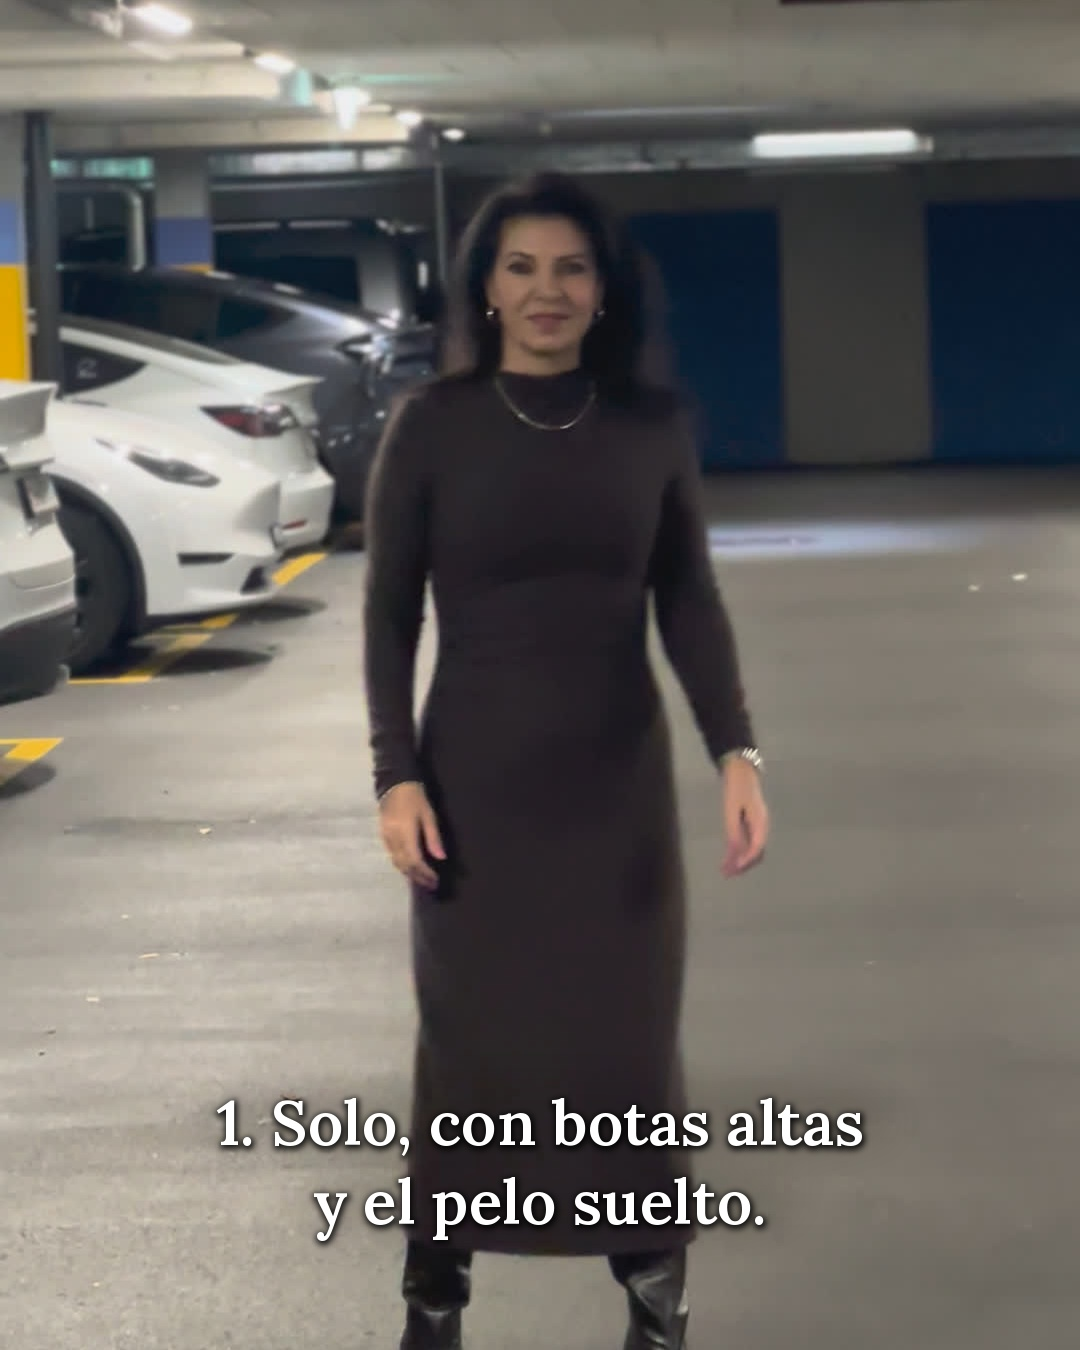
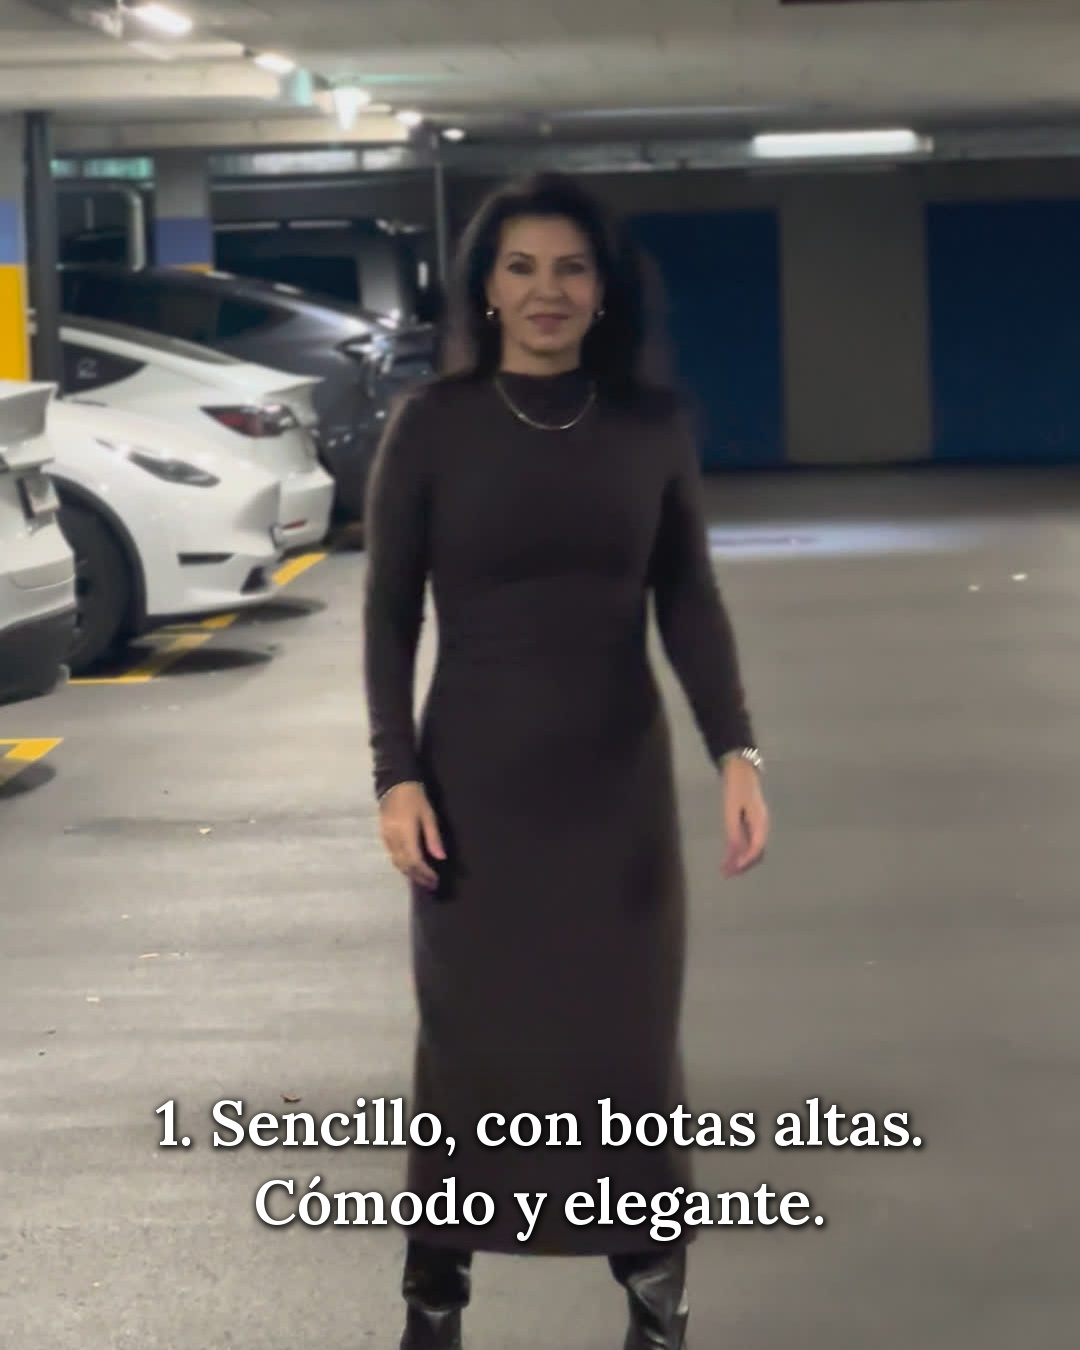
Normas: cuenta pensada para mujeres; carrusel 28 nov retocado
Claude-Session: https://claude.ai/code/session_01DvE22EYfGFMJ7juH4Ni6wN

Changed region(s): [[0.1222, 0.8089, 0.8556, 0.9333]]

diff --git a/NORMAS.md b/NORMAS.md
@@ -214,3 +214,10 @@ Lo que ya está programado en el estilo antiguo se sustituye poco a poco por ree
 - Las historias en vídeo a lo largo del día las sube Coni a mano. No se tocan ni se programan encima.
 - Publicación diaria del feed (tarjeta de las 08:00): la hace Make, escenario 7232062, desde la pestaña «Untitled» de la hoja (exporta la tarjeta de Canva y publica foto en Facebook e Instagram; marca la fila «Publicado»). Filas preparadas hasta el 31 ene. Sigue igual. Ojo: la conexión de Facebook en Make caduca el 3 dic (recordatorio el 28 nov).
 - ÁLBUM DE CLUB SOBERANA (orden de Coni, 17 nov): todas las fotos y vídeos que Coni mande se guardan siempre, sin excepción, en este repositorio (fotos-coni/ y videos-coni/, rama claude/retomamos-dbtxxf) y se apuntan en la colección `fotos` del registro como «libre», con descripción y escena. Los vídeos del iPhone vienen en HDR: se pasan a SDR solo al usarlos.
+
+## CUENTA PARA MUJERES (Coni, 18 nov 2026)
+Han empezado a seguirla muchos hombres y a dejarle comentarios. Coni quiere una comunidad de mujeres:
+- Nada de noche a solas, citas, cenas a solas, «salir sola», piropos, miradas a cámara insinuantes ni frases que se lean como coqueteo. Nada que hable del cuerpo.
+- Cada texto se dirige a ellas: «amiga», «nosotras», «mándaselo a tu amiga». Temas de amigas, estilo, calma, bienestar y comunidad.
+- Elegir planos de cuerpo entero o de paseo, sin poses sensuales; antes que nada, la mirada natural.
+- Revisar con este filtro todo lo ya programado (reels, carruseles, tarjetas e historias).
